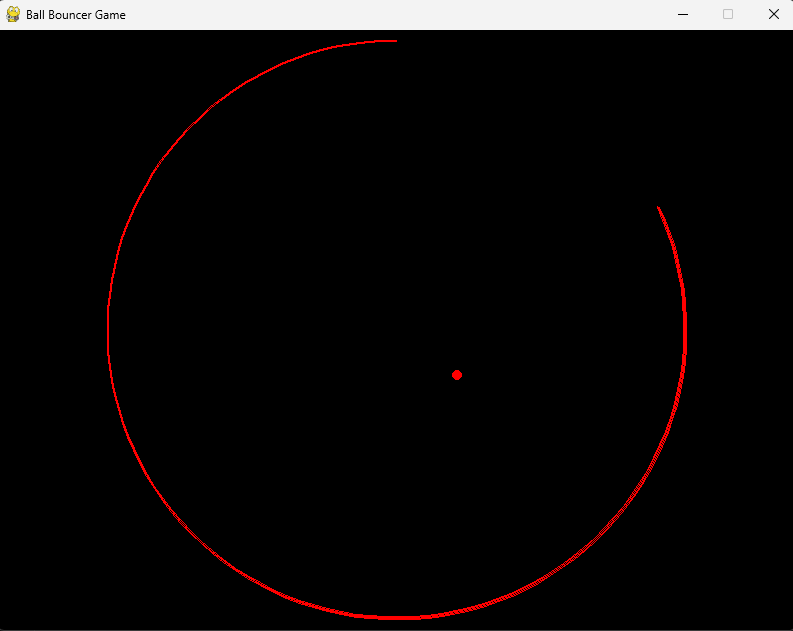
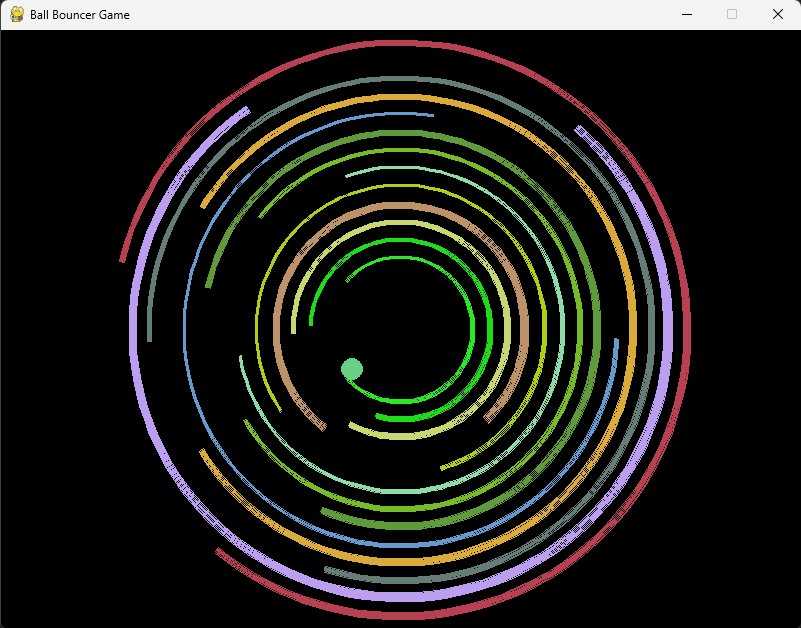
Updated readme.md

diff --git a/src/main.py b/src/main.py
@@ -13,8 +13,8 @@ if __name__ == "__main__":
     # Create the game configuration
     game_config = GameConfig(
         # Screen dimensions
-        width=1920,  # The width of the game window in pixels
-        height=1080,  # The height of the game window in pixels
+        width=1280,  # The width of the game window in pixels
+        height=720,  # The height of the game window in pixels
         fps=30,  # Frames per second for smooth rendering and game updates
         # Ball-specific configuration
         ball_config=BallConfig(

diff --git a/README.md b/README.md
@@ -1,6 +1,6 @@
 # **Ball Bouncer Game**
 
-A simple and interactive arcade game where a ball bounces within a circular boundary, with realistic gravity and collision physics. The player can observe the ball's interaction with a rotating boundary arc, offering a fun way to experience physics-based gameplay.
+The Ball Bouncer game features a ball that continuously moves within rotating boundaries, driven by gravity, speed variations, and random bounce adjustments after each collision. The boundaries rotate and change their angles, interacting with the ball in dynamic ways. When the ball escapes all arcs, new random configurations are applied, such as the number of boundaries, their radius, rotation speed, width, and color. This ensures the game never stops and provides a fresh, unpredictable challenge each time the ball escapes the arcs.
 
 ![Game Screenshot](docs/images/game_screenshot.png)
 
@@ -20,9 +20,10 @@ A simple and interactive arcade game where a ball bounces within a circular boun
 ---
 
 ## **Features**
-- **Physics-based gameplay**: The ball bounces with gravity, elasticity, and collision detection.
-- **Rotating boundary**: A circular arc boundary rotates, creating dynamic gameplay.
-- **Customizable settings**: Adjust ball speed, gravity, and boundary rotation speed.
+- **Continuous Ball Movement:** The ball constantly moves, influenced by gravity, speed adjustments, and random bounce variations.
+- **Rotating Boundaries:** Boundaries rotate with varying speeds and angles, providing dynamic interactions with the ball.
+- **Endless Gameplay:** The game never stops;  Each time the ball escapes all arcs, new boundary configurations are applied, including the number, size, speed, width, and color of the boundaries.
+- **Elastic Bounce Mechanics:** The ball bounces off boundaries with elasticity, creating unpredictable yet consistent behavior.
 
 ---
 
